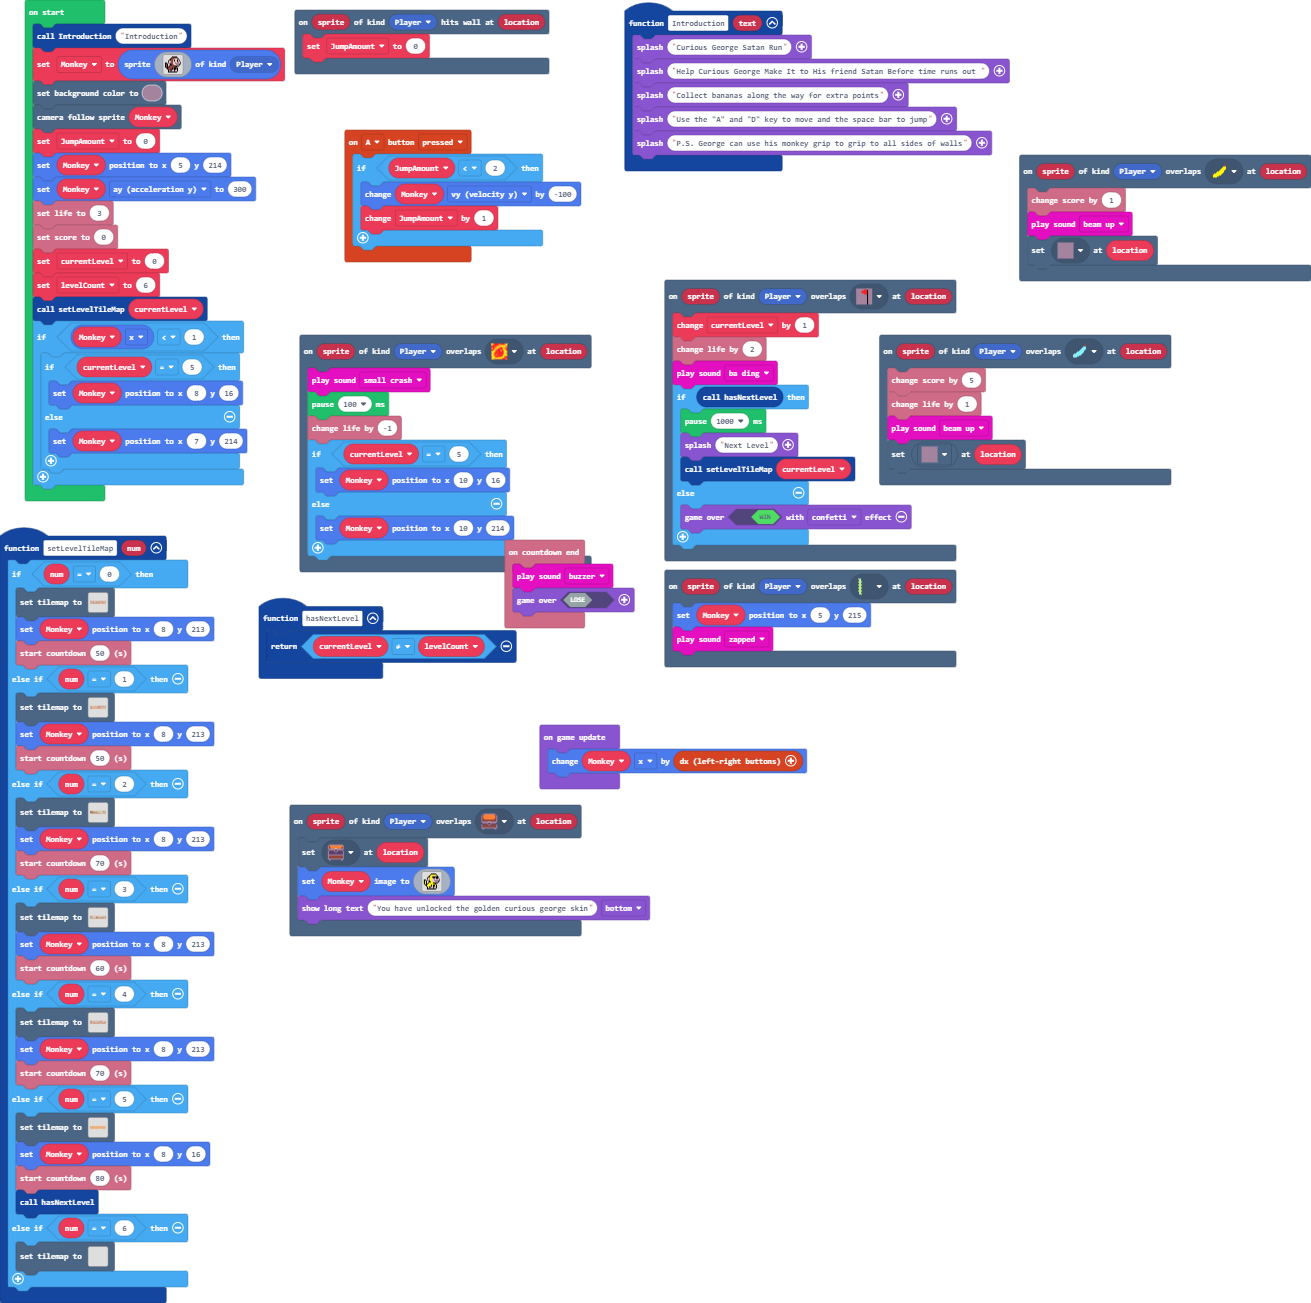
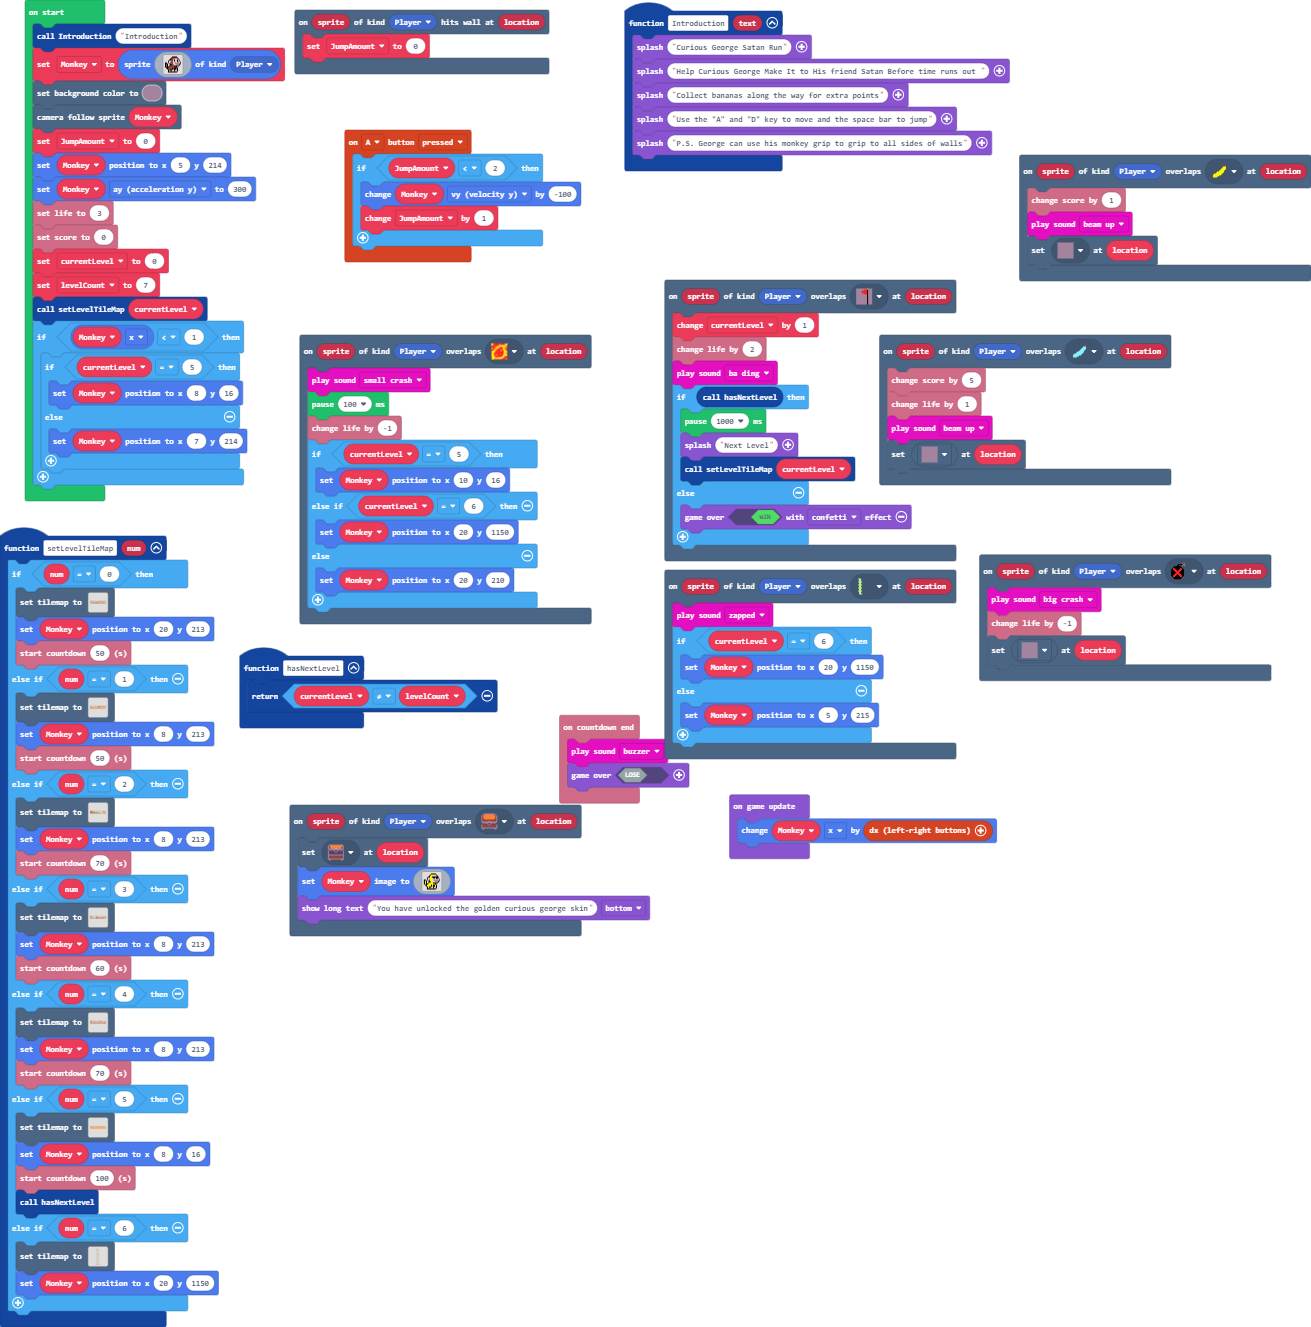
Update main.blocks, main.ts, tilemap.g.jres, tilemap.g.ts

diff --git a/tilemap.g.ts b/tilemap.g.ts
@@ -42,6 +42,8 @@ namespace myTiles {
     export const tile19 = image.ofBuffer(hex``);
     //% fixedInstance jres blockIdentity=images._tile
     export const tile20 = image.ofBuffer(hex``);
+    //% fixedInstance jres blockIdentity=images._tile
+    export const tile21 = image.ofBuffer(hex``);
 
     helpers._registerFactory("tilemap", function(name: string) {
         switch(helpers.stringTrim(name)) {
@@ -520,6 +522,156 @@ namespace myTiles {
 ....................................................................................................
 ....................................................................................................
 `, [myTiles.transparency16], TileScale.Sixteen);
+            case "level26":
+            case "level26":return tiles.createTilemap(hex`100032000100000000000000000000000000000101000000000000000000000000000001010000000000000000000000000000010100000000000000000000000000000101000000000000000000000000000001010000000000000000000000000000010100000000000000000000000000000101000000000000000000000000000001010000000000000000000000000000010100000000000000000000000000000101000000000000000000000000000001010000000000000000000000000000010100000000000000000000000000000101000000000000000000000000000001010000000000000000000000000000010100000000000000000000000000000101000000000000000000000000000001010000000000000000000000000000010100000000000000000000000000000101000000000000000000000000000001010000000000000000000000000000010100000000000000000000000000000101000000000000000000000000000001010000000000000000000000000000010100000000000000000000000000000101000000000000000000000000000001010000000000000000000000000000010100000000000000000000000000000101000000000000000000000000000001010000000000000000000000000000010100000000000000000000000000000101000000000000000000000000000001010000000000000000000000000000010100000000000000000000000000000101000000000000000000000000000001010000000000000000000000000000010100000000000000000000000000000101000000000000000000000000000001010000000000000000000000000000010100000000000000000000000000000101000000000000000000000000000001010000000000000000000000000000010100000000000000000000000000000101000000000000000000000000000001010000000000000000000000000000010100000000000000000000000000000101000000000000000000000000000001010000000000000000000000000000010100000000000000000000000000000101000000000000000000000000000001`, img`
+................
+................
+................
+................
+................
+................
+................
+................
+................
+................
+................
+................
+................
+................
+................
+................
+................
+................
+................
+................
+................
+................
+................
+................
+................
+................
+................
+................
+................
+................
+................
+................
+................
+................
+................
+................
+................
+................
+................
+................
+................
+................
+................
+................
+................
+................
+................
+................
+................
+................
+`, [myTiles.transparency16,myTiles.tile11,myTiles.tile21], TileScale.Sixteen);
+            case "level27":
[1 lines of base64/hex data omitted]
+................
+.........2......
+................
+.......2.....2..
+2222.2....2.....
+222.............
+22.2.2..2...2.2.
+2...............
+...2......2.....
+......2.2....2..
+................
+..2....2.2.2....
+................
+.2..............
+......2..2......
+..2.2.......2...
+................
+........2.......
+.....2.....2....
+...2........2...
+.......2........
+..........2.....
+.2...2...2...2..
+................
+...2...2...2....
+................
+.2...2...2...2..
+................
+...2...2...2....
+................
+.2...2...2...2..
+................
+...2...2...2....
+................
+.2...2...2...2..
+................
+...2...2...2....
+................
+.2...2...2...2..
+................
+...2...2...2....
+................
+.2...2...2...2..
+................
+...2...2...2....
+................
+.2...2...2...2..
+................
+...2...2...2....
+................
+.2...2...2...2..
+................
+...2...2...2....
+................
+.2...2...2...2..
+................
+...2...2...2....
+................
+.2...2...2...2..
+................
+...2...2...2....
+................
+.2...2...2...2..
+2...............
+...2...2...2....
+................
+.........2...2..
+................
+.......2...2....
+................
+.....2...2...2..
+................
+...2...2...2..22
+222.............
+222.............
+`, [myTiles.transparency16,myTiles.tile1,myTiles.tile3,myTiles.tile12,myTiles.tile9,myTiles.tile7,myTiles.tile11,myTiles.tile21,sprites.dungeon.darkGroundCenter,sprites.dungeon.hazardLava0,sprites.dungeon.floorDark0,sprites.castle.rock0], TileScale.Sixteen);
+            case "level28":
+            case "level28":return tiles.createTilemap(hex`1000100000000000000000000000000000000000000000000000000000000000000000000000000000000000000000000000000000000000000000000000000000000000000000000000000000000000000000000000000000000000000000000000000000000000000000000000000000000000000000000000000000000000000000000000000000000000000000000000000000000000000000000000000000000000000000000000000000000000000000000000000000000000000000000000000000000000000000000000000000000000000000000000000000000000000000000000000000000000000000000000000000000000000000000000000000000000`, img`
+. . . . . . . . . . . . . . . . 
+. . . . . . . . . . . . . . . . 
+. . . . . . . . . . . . . . . . 
+. . . . . . . . . . . . . . . . 
+. . . . . . . . . . . . . . . . 
+. . . . . . . . . . . . . . . . 
+. . . . . . . . . . . . . . . . 
+. . . . . . . . . . . . . . . . 
+. . . . . . . . . . . . . . . . 
+. . . . . . . . . . . . . . . . 
+. . . . . . . . . . . . . . . . 
+. . . . . . . . . . . . . . . . 
+. . . . . . . . . . . . . . . . 
+. . . . . . . . . . . . . . . . 
+. . . . . . . . . . . . . . . . 
+. . . . . . . . . . . . . . . . 
+`, [myTiles.transparency16], TileScale.Sixteen);
         }
         return null;
     })
@@ -567,6 +719,8 @@ namespace myTiles {
             case "tile19":return tile19;
             case "myTile16":
             case "tile20":return tile20;
+            case "myTile17":
+            case "tile21":return tile21;
         }
         return null;
     })

diff --git a/main.ts b/main.ts
@@ -16,7 +16,7 @@ scene.onHitWall(SpriteKind.Player, function (sprite, location) {
 function setLevelTileMap (num: number) {
     if (num == 0) {
         tiles.setTilemap(tilemap`level1`)
-        Monkey.setPosition(8, 213)
+        Monkey.setPosition(20, 213)
         info.startCountdown(50)
     } else if (num == 1) {
         tiles.setTilemap(tilemap`level2`)
@@ -37,10 +37,11 @@ function setLevelTileMap (num: number) {
     } else if (num == 5) {
         tiles.setTilemap(tilemap`level16`)
         Monkey.setPosition(8, 16)
-        info.startCountdown(80)
+        info.startCountdown(100)
         hasNextLevel()
     } else if (num == 6) {
-        tiles.setTilemap(tilemap`level25`)
+        tiles.setTilemap(tilemap`level27`)
+        Monkey.setPosition(20, 1150)
     }
 }
 controller.A.onEvent(ControllerButtonEvent.Pressed, function () {
@@ -55,8 +56,10 @@ scene.onOverlapTile(SpriteKind.Player, sprites.dungeon.hazardLava0, function (sp
     info.changeLifeBy(-1)
     if (currentLevel == 5) {
         Monkey.setPosition(10, 16)
+    } else if (currentLevel == 6) {
+        Monkey.setPosition(20, 1150)
     } else {
-        Monkey.setPosition(10, 214)
+        Monkey.setPosition(20, 210)
     }
 })
 scene.onOverlapTile(SpriteKind.Player, assets.tile`myTile12`, function (sprite, location) {
@@ -66,8 +69,12 @@ scene.onOverlapTile(SpriteKind.Player, assets.tile`myTile12`, function (sprite, 
     tiles.setTileAt(location, assets.tile`myTile11`)
 })
 scene.onOverlapTile(SpriteKind.Player, assets.tile`myTile9`, function (sprite, location) {
-    Monkey.setPosition(5, 215)
     music.zapped.play()
+    if (currentLevel == 6) {
+        Monkey.setPosition(20, 1150)
+    } else {
+        Monkey.setPosition(5, 215)
+    }
 })
 info.onCountdownEnd(function () {
     music.buzzer.play()
@@ -77,6 +84,11 @@ scene.onOverlapTile(SpriteKind.Player, sprites.dungeon.chestClosed, function (sp
     tiles.setTileAt(location, assets.tile`myTile15`)
     Monkey.setImage(assets.image`Golden Curious George`)
     game.showLongText("You have unlocked the golden curious george skin", DialogLayout.Bottom)
+})
+scene.onOverlapTile(SpriteKind.Player, assets.tile`myTile17`, function (sprite, location) {
+    music.bigCrash.play()
+    info.changeLifeBy(-1)
+    tiles.setTileAt(location, assets.tile`myTile11`)
 })
 function Introduction (text: string) {
     game.splash("Curious George Satan Run")
@@ -124,7 +136,7 @@ Monkey.ay = 300
 info.setLife(3)
 info.setScore(0)
 currentLevel = 0
-levelCount = 6
+levelCount = 7
 setLevelTileMap(currentLevel)
 if (Monkey.x < 1) {
     if (currentLevel == 5) {
